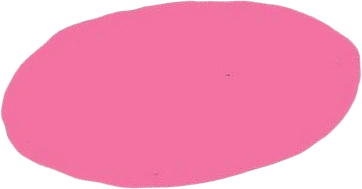
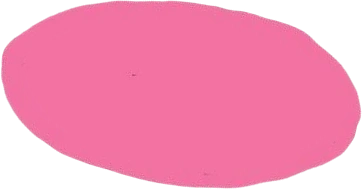
Large copy + design alignment pass against the latest feedback
Explicit fixes:
- Oval around "UCLA": flipped its tilt direction (was "\", Figma shows
  "/") and made the CSS inset em-based so the same asset now also
  works behind "your" in the new home headline at a much bigger size.
- Renamed the "see what we do" / "about us" buttons to "what we do"
  (hero secondary CTA + who-we-are CTA).
- Removed the "scrapbook" eyebrow label (the headline above it was
  already removed last round).
- About page: headline "From learning to doing." -> "Your way into
  venture." at a much smaller size (clamp 2.2-3.6rem vs the ~4-12rem
  default h1 scale); removed the "note from the president" section.
- Removed the dash icon in front of every eyebrow label sitewide —
  flagged as looking bad.
- Home "who we are" restructured to a pink question ("who are we?")
  over a black statement ("we are your way into venture.") with the
  hand-drawn oval now circling "your" instead.
- Footer: swapped the plain-text Instagram/LinkedIn links for the
  actual watercolor icon assets used on the aanyalall.com portfolio
  (Downloads/website/connect/), and set the real LinkedIn URL
  (girls-into-vc-at-ucla).
- Removed "currently curious about: —" from every exec board card
  ("let's not do fun fact, it's so boring").

Copy alignment against the provided canonical deck:
- Home "who we are": dropped "for women" from the founding sentence.
- About "Apply it" / "Engage with it" steps: replaced with the deck's
[…]

Changed region(s): [[0.0, 0.0, 1.0, 1.0]]

diff --git a/index.html b/index.html
@@ -35,7 +35,7 @@
       <p class="terra-sub reveal">a pre-professional home for <span class="oval-highlight">UCLA</span> women — built through education, hands-on projects, and direct exposure to founders and investors.</p>
       <div class="terra-actions reveal">
         <a class="terra-cta terra-cta-solid" href="recruitment.html">apply to join</a>
-        <a class="terra-cta" href="about.html">see what we do</a>
+        <a class="terra-cta" href="about.html">what we do</a>
       </div>
     </div>
   </header>
@@ -45,14 +45,14 @@
     <section class="section" id="who-we-are">
       <div class="wrap split">
         <div class="reveal">
-          <p class="eyebrow eyebrow-lg">who we are</p>
-          <h2>Your way into venture.</h2>
+          <p class="eyebrow eyebrow-lg">who are we?</p>
+          <h2 style="color:var(--ink);">we are <span class="oval-highlight">your</span> way into venture.</h2>
         </div>
         <div class="reveal">
-          <p class="body-copy">Girls Into VC at UCLA is the first university chapter of <a href="https://www.girlsintovc.com/" target="_blank" rel="noopener" style="text-decoration:underline;">Girls Into VC</a>, founded in 2023 to create a meaningful entry point into venture for women at UCLA.</p>
+          <p class="body-copy">Girls Into VC at UCLA is the first university chapter of <a href="https://www.girlsintovc.com/" target="_blank" rel="noopener" style="text-decoration:underline;">Girls Into VC</a>, founded in 2023 to create a meaningful entry point into venture at UCLA.</p>
           <p class="body-copy">Through education, hands-on projects, and direct exposure to founders and investors, we turn an interest in venture into meaningful experiences.</p>
           <div class="btn-row">
-            <a class="btn btn-pink" href="about.html">about us →</a>
+            <a class="btn btn-pink" href="about.html">what we do →</a>
           </div>
         </div>
       </div>
@@ -66,7 +66,7 @@
           <h2>Work with Us</h2>
         </div>
         <div class="reveal">
-          <p class="body-copy">We work with startups, venture firms, founders, and operators through structured projects, speaker sessions, industry visits, and collaborative events.</p>
+          <p class="body-copy">We work with startups, venture firms, founders, and operators through project teams, speaker sessions, industry visits, and collaborative events.</p>
           <div class="btn-row">
             <a class="btn btn-pink" href="work-with-us.html">work with us →</a>
           </div>
@@ -82,7 +82,7 @@
           <h2>We take the work seriously. Ourselves, slightly less so.</h2>
         </div>
         <div class="reveal">
-          <p class="body-copy">You might not arrive knowing exactly where you fit in venture — but you'll fit in the group, and you can figure out the rest alongside people doing the same.</p>
+          <p class="body-copy">You don't need to arrive knowing exactly where you fit in venture. Part of the point is figuring that out alongside people who are doing the same.</p>
           <div class="btn-row">
             <a class="btn btn-pink" href="members.html">meet the community →</a>
           </div>
@@ -109,11 +109,6 @@
     <!-- SCRAPBOOK -->
     <section class="section textured tex-gingham">
       <div class="wrap">
-        <div class="section-head reveal">
-          <div>
-            <p class="eyebrow">scrapbook</p>
-          </div>
-        </div>
         <div class="polaroid-fan reveal" role="button" tabindex="0" aria-expanded="false" aria-label="Expand the photo stack">
           <div class="polaroid-wrap">
             <figure class="polaroid">
@@ -163,8 +158,8 @@
       <div class="footer-brand">
         <a class="footer-logo" href="index.html"><img src="images/givc-logo-transparent.png" alt="Girls Into VC"><span class="chapter-tag">at ucla</span></a>
         <div class="footer-socials">
-          <a href="https://www.instagram.com/girlsintovc.ucla/" target="_blank" rel="noopener">@girlsintovc.ucla</a>
-          <a href="https://www.linkedin.com/company/girls-into-vc-ucla" target="_blank" rel="noopener">LinkedIn (placeholder — add real URL)</a>
+          <a href="https://www.instagram.com/girlsintovc.ucla/" target="_blank" rel="noopener" title="instagram"><img src="images/social-instagram.webp" alt="Instagram"></a>
+          <a href="https://www.linkedin.com/company/girls-into-vc-at-ucla" target="_blank" rel="noopener" title="linkedin"><img src="images/social-linkedin.webp" alt="LinkedIn"></a>
         </div>
       </div>
       <div class="footer-links">

diff --git a/about.html b/about.html
@@ -26,7 +26,7 @@
   <header class="page-hero">
     <div class="wrap reveal">
       <p class="eyebrow">what we do</p>
-      <h1>From learning to doing.</h1>
+      <h1 style="font-size:clamp(2.2rem, 5.5vw, 3.6rem);">Your way into venture.</h1>
       <p class="lead">There's no single way to learn venture. So we combine structured education with opportunities to practice, meet people doing the work, and eventually contribute to it yourself.</p>
     </div>
   </header>
@@ -58,7 +58,7 @@
             <span class="staircase-num">02</span>
             <div class="staircase-body">
               <h3>Apply it</h3>
-              <p>Members can progress onto small teams working directly with early-stage founders on fundraising, research, growth, and strategy questions over the course of a quarter.</p>
+              <p>Members can earn their way onto small project teams working directly with early-stage founders on live business questions. Projects typically run for 8 weeks and move beyond hypothetical case studies into work founders can actually use — from investor research and fundraising materials to market mapping, growth, and go-to-market strategy.</p>
               <p style="font-style:italic; color:var(--muted); font-size:0.92rem;">For some members, those relationships have continued into formal internships.</p>
               <a href="work-with-us.html#testimonials" class="quicklinks" style="display:inline-block; margin-top:8px;">see how project teams work →</a>
             </div>
@@ -68,7 +68,7 @@
             <span class="staircase-num">03</span>
             <div class="staircase-body">
               <h3>Engage with it</h3>
-              <p>Members learn directly from founders, investors, and operators through speaker sessions, office visits, small-group conversations, collaborative events, and our annual Summit.</p>
+              <p>Our speaker sessions, annual Summit, community events, mentorship program, and industry visits put members in conversation with founders, investors, and operators at different points in their careers.</p>
             </div>
           </article>
 
@@ -114,41 +114,26 @@
             <p class="member-meta">president</p>
             <h3>Name here</h3>
             <p style="margin-top:4px;">Major here · class of 20XX</p>
-            <p class="small-caps" style="margin-top:10px;">currently curious about: —</p>
           </article>
           <article class="exec-card reveal">
             <div class="exec-photo avatar-b" aria-hidden="true"><span class="avatar-letter">B</span></div>
             <p class="member-meta">vp, external</p>
             <h3>Name here</h3>
             <p style="margin-top:4px;">Major here · class of 20XX</p>
-            <p class="small-caps" style="margin-top:10px;">currently curious about: —</p>
           </article>
           <article class="exec-card reveal">
             <div class="exec-photo avatar-c" aria-hidden="true"><span class="avatar-letter">C</span></div>
             <p class="member-meta">vp, internal</p>
             <h3>Name here</h3>
             <p style="margin-top:4px;">Major here · class of 20XX</p>
-            <p class="small-caps" style="margin-top:10px;">currently curious about: —</p>
           </article>
           <article class="exec-card reveal">
             <div class="exec-photo avatar-d" aria-hidden="true"><span class="avatar-letter">D</span></div>
             <p class="member-meta">vp, recruitment</p>
             <h3>Name here</h3>
             <p style="margin-top:4px;">Major here · class of 20XX</p>
-            <p class="small-caps" style="margin-top:10px;">currently curious about: —</p>
           </article>
         </div>
-      </div>
-    </section>
-
-    <!-- NOTE FROM THE PRESIDENT -->
-    <section class="section pink textured tex-stamp">
-      <div class="wrap">
-        <blockquote class="quote reveal" style="text-align:left; max-width:820px; margin:0;">
-          <p class="eyebrow">a note from the president</p>
-          <p style="font-size:clamp(1.3rem,2.6vw,1.7rem); font-weight:500; line-height:1.5;">"Add a short letter here — why you started (or joined) GIVC, what you want a new member to feel on her first day, and what you hope this chapter becomes. Keep it personal; this is the one place on the site that's just you."</p>
-          <cite>Name here, President — Girls Into VC at UCLA</cite>
-        </blockquote>
       </div>
     </section>
 

diff --git a/work-with-us.html b/work-with-us.html
@@ -27,7 +27,7 @@
     <div class="wrap reveal">
       <p class="eyebrow eyebrow-lg">for industry</p>
       <h1>Work with Us</h1>
-      <p class="lead">We work with startups, venture firms, founders, and operators through structured projects, speaker sessions, industry visits, and collaborative events.</p>
+      <p class="lead">We work with startups, venture firms, founders, and operators through project teams, speaker sessions, industry visits, and collaborative events.</p>
       <div class="btn-row" style="margin-top:18px;">
         <a class="btn btn-pink" href="#how-it-works">work with us →</a>
       </div>
@@ -114,7 +114,7 @@
                 <h3>Preparing Undun's Fundraise</h3>
               </div>
             </div>
-            <p class="tp-desc-sm">Refined Undun's investor narrative, articulated the product's innovation, and strengthened pitch materials and supporting research ahead of fundraising conversations.</p>
+            <p class="tp-desc-sm">A GIVC project team worked with Undun as the company prepared for fundraising conversations, helping refine its investor narrative, articulate the innovation behind the product, strengthen pitch materials, and build supporting research for investors.</p>
             <div class="hero-kicker" style="margin-top:10px; margin-bottom:0;">
               <span class="pill">investor narrative</span>
               <span class="pill">fundraising</span>
@@ -130,7 +130,7 @@
                 <h3>Fueling Hydra Hydration's Raise</h3>
               </div>
             </div>
-            <p class="tp-desc-sm">Supported Hydra Hydration's raise across angels and family offices — investor research, outreach tracking, and pitch and data-room materials.</p>
+            <p class="tp-desc-sm">A GIVC team supported Hydra Hydration's fundraising efforts across angels and family offices, working directly with the founder on investor research, outreach tracking, pitch and data-room materials, meeting coordination, and fundraising momentum.</p>
             <div class="hero-kicker" style="margin-top:10px; margin-bottom:0;">
               <span class="pill">investor research</span>
               <span class="pill">fundraising ops</span>

diff --git a/styles.css b/styles.css
@@ -316,17 +316,9 @@ p,
 .eyebrow {
   display: inline-flex;
   align-items: center;
-  gap: 10px;
   margin: 0 0 18px;
   color: var(--pink-deep);
   font-size: 0.82rem;
-}
-
-.eyebrow::before {
-  content: "";
-  width: 36px;
-  height: 2px;
-  background: currentColor;
 }
 
 .eyebrow-lg { font-size: 1rem; letter-spacing: 0.01em; }
@@ -410,7 +402,7 @@ p,
   content: "";
   position: absolute;
   z-index: -1;
-  inset: -3px -6px;
+  inset: -0.2em -0.4em;
   background: url("images/oval-highlight.webp") center / 100% 100% no-repeat;
 }
 
@@ -1443,16 +1435,26 @@ textarea:focus {
 
 .footer-socials {
   display: flex;
-  flex-wrap: wrap;
-  gap: 16px 24px;
+  align-items: center;
+  gap: 14px;
 }
 
 .footer-socials a {
-  color: var(--muted-strong);
-  font-size: 0.86rem;
+  display: flex;
+  align-items: center;
+  justify-content: center;
+  transition: transform 220ms var(--ease);
 }
 
-.footer-socials a:hover { color: var(--pink-deep); }
+.footer-socials a:hover { transform: translateY(-4px) scale(1.08); }
+
+.footer-socials img {
+  width: 32px;
+  height: 32px;
+  max-width: none;
+  object-fit: contain;
+  filter: drop-shadow(0 3px 8px rgba(23, 16, 20, 0.22));
+}
 
 .footer-links {
   display: grid;

diff --git a/members.html b/members.html
@@ -41,7 +41,7 @@
           </div>
           <p class="body-copy">GIVC brings together women across majors, years, and interests who probably wouldn't all have ended up in the same room otherwise. What starts with learning venture quickly becomes project teammates, coffee chats, shared opportunities, long conversations after meetings, and friendships we genuinely value.</p>
         </div>
-        <p class="lead" style="max-width:820px;">You might not arrive knowing exactly where you fit in venture — but you'll fit in the group, and you can figure out the rest alongside people doing the same.</p>
+        <p class="lead" style="max-width:820px;">You don't need to arrive knowing exactly where you fit in venture. Part of the point is figuring that out alongside people who are doing the same.</p>
         <div class="btn-row" style="margin-top:22px;">
           <a class="btn btn-pink" href="https://www.instagram.com/girlsintovc.ucla/" target="_blank" rel="noopener">follow along on instagram</a>
         </div>
